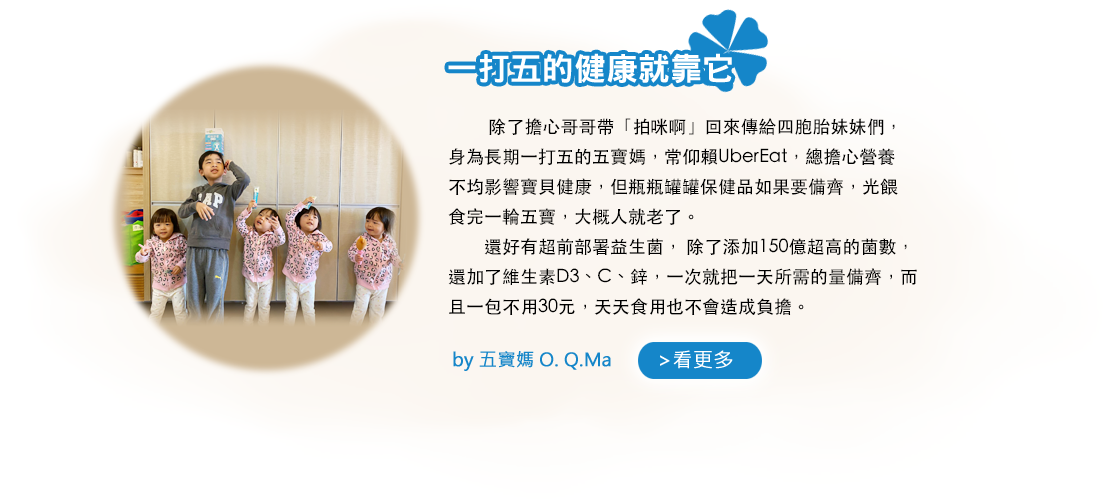
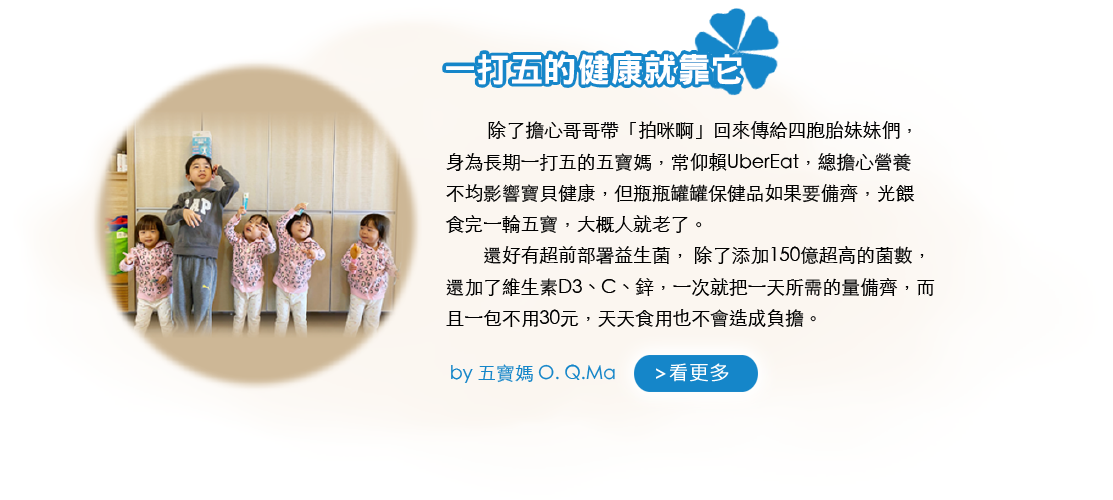
asd

Changed region(s): [[0.0611, 0.12, 0.8553, 0.81], [0.3971, 0.0, 0.7026, 0.21], [0.2749, 0.15, 0.3055, 0.18]]

diff --git a/index.html b/index.html
@@ -49,7 +49,7 @@
   </noscript>
   <!-- End Facebook Pixel Code -->
 
-  <script>
+  <!-- <script>
     $(document).ready(function(){
       var play_yt = $.cookie('play_yt');
      if (play_yt == null) {
@@ -61,7 +61,7 @@
     function openyt(){
       $('.firstVideo').css('display', 'block');
     }
-</script>
+</script> -->
 </head>
 <body>
   <div class="loader">
@@ -141,6 +141,7 @@
             <div class="mb_item item_ani">
               <img class="item" src="images/m_item.png" alt="">
               <div class="slip_light slip_ani"></div>
+              <img class="mb_1123" src="images/1123.png" alt="">
             </div>
           </div>
         </div>
@@ -305,12 +306,12 @@
       統一藥品股份有限公司PRESIDENT PHARMACEUTICAL CORP. 地址 : 105台北市松山區南京東路四段126號6樓<br>
       產品諮詢專線 : 0800-000-070(09:00-18:00週一到週日) Copyright © 2022 ppc, Inc. All Rights Reserved.
     </div>
-    <div class="modalBlock firstVideo" style="display: none;">
+    <!-- <div class="modalBlock firstVideo" style="display: none;">
       <div class="player">
         <img src="images/close.png" alt="close" class="close">
         <iframe width="100%" height="100%" src="https://www.youtube.com/embed/3Nwvjy6rcMo" title="YouTube video player" frameborder="0" allow="accelerometer; autoplay; clipboard-write; encrypted-media; gyroscope; picture-in-picture" allowfullscreen></iframe>
       </div>
-    </div>
+    </div> -->
   </div>
   <script>
     window.addEventListener("load", function(){
@@ -477,15 +478,15 @@
       } } ); 
       fbq('track', 'ViewContent');
     }
-    $('.close').on('click', function(){
-      $('.firstVideo').hide();
-      // console.log('close');
-      $("iframe").each(function() {
-        var src= $(this).attr('src');
-        $(this).attr('src',src);
-      });
-      // $('.youtube_video')[0].contentWindow.postMessage('{"event":"command","func":"' + 'stopVideo' + '","args":""}', '*');
-    })
+    // $('.close').on('click', function(){
+    //   $('.firstVideo').hide();
+    //   // console.log('close');
+    //   $("iframe").each(function() {
+    //     var src= $(this).attr('src');
+    //     $(this).attr('src',src);
+    //   });
+    //   // $('.youtube_video')[0].contentWindow.postMessage('{"event":"command","func":"' + 'stopVideo' + '","args":""}', '*');
+    // })
   </script>
 </body>
 </html>

diff --git a/css/style.css b/css/style.css
@@ -1036,7 +1036,7 @@ body{
     position: relative;
 }
 .mb_people{
-    width: 25%;
+    width: 30%;
     position: relative;
     margin-top: 100px;
     left: 0;
@@ -1086,6 +1086,13 @@ body{
     top: -60px;
     right: -50px;
     cursor: pointer;
+}
+.mb_1123{
+    width: 30%;
+    height: auto;
+    position: absolute;
+    bottom: -15%;
+    right: 38%;
 }
 @media screen and (max-width: 1680px){
     .slip_light{
@@ -1173,7 +1180,7 @@ body{
         height: auto;
         position: relative;
         overflow: hidden;
-        padding-bottom: 30px;
+        padding-bottom: 130px;
     }
     .banner .people{
         width: 100%;
@@ -1183,12 +1190,12 @@ body{
         left: 0;
     }
     .banner .big_title{
-        width: 120%;
+        width: 110%;
         height: auto;
         position: relative;
         top: 0;
         left: 0;
-        margin-top: -95px;
+        margin-top: -90px;
     }
     .banner .item{
         width: 100%;
@@ -1611,10 +1618,15 @@ body{
         transition: all .7s;
     }
     .slip_light {
-        width: 33%;
+        /* width: 33%;
         height: 54.8%;
         position: absolute;
         top: 28.9%;
+        right: 36.8%; */
+        width: 33%;
+        height: 49.8%;
+        position: absolute;
+        top: 25.9%;
         right: 36.8%;
     }
     .slip_light:before {
@@ -1644,6 +1656,13 @@ body{
         margin: -28.125% auto 0;
         padding-top: 5.25%;
     }
+    .mb_1123{
+        width: 30%;
+        height: auto;
+        position: absolute;
+        bottom: -4%;
+        right: 39%;
+    }
 }
 @media screen and (max-width: 400px){
     .modalBlock .player{
@@ -1656,5 +1675,24 @@ body{
         max-height: 320px;
         margin: -28.125% auto 0;
         padding-top: 5.25%;
+    }
+    .slip_light {
+        /* width: 33%;
+        height: 54.8%;
+        position: absolute;
+        top: 28.9%;
+        right: 36.8%; */
+        width: 33%;
+        height: 49.8%;
+        position: absolute;
+        top: 24.9%;
+        right: 36.8%;
+    }
+    .mb_1123{
+        width: 30%;
+        height: auto;
+        position: absolute;
+        bottom: -4%;
+        right: 39%;
     }
 }
